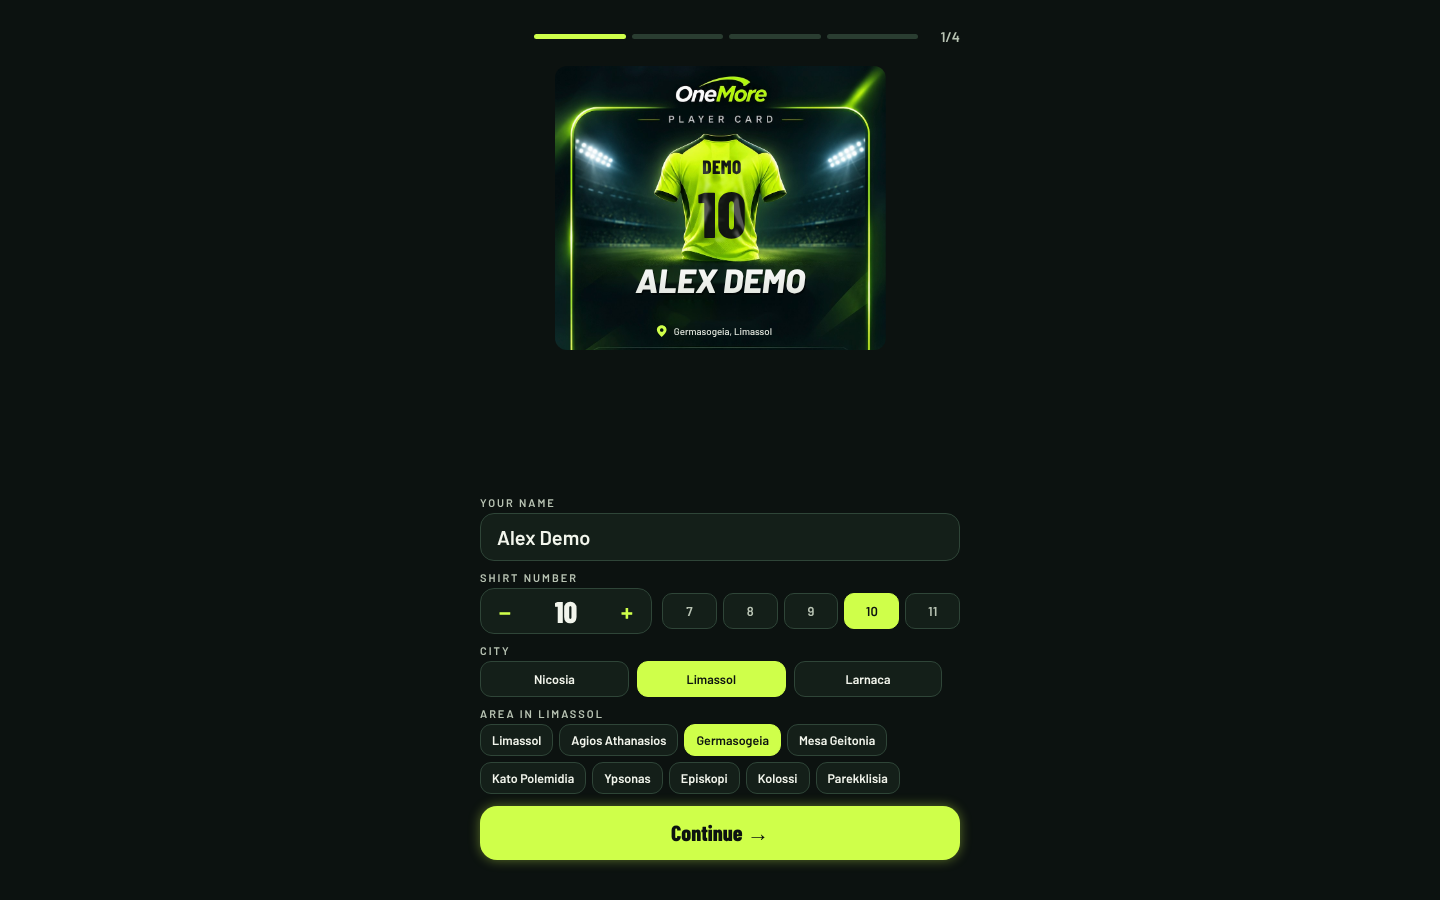
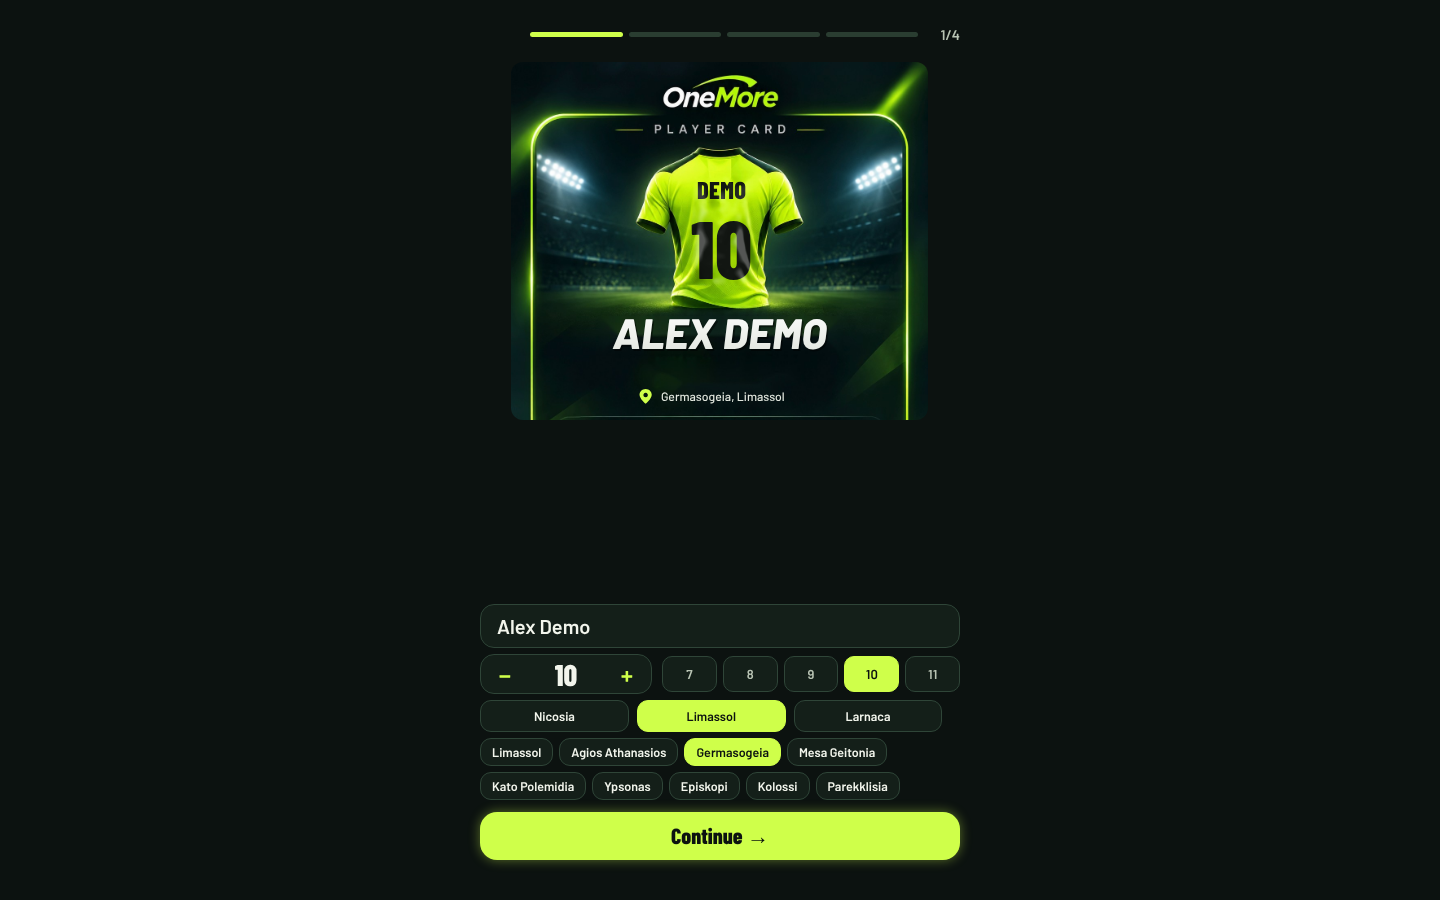
feat: make the player card the main element of every onboarding step
Controls are compact so the card takes the screen width; the card keeps one
position on every step and the footer keeps its bottom margin.

Claude-Session: https://claude.ai/code/session_018Y2DJcCxNRruUAufNUxVdN

diff --git a/src/features/profile/PlayerOnboarding.tsx b/src/features/profile/PlayerOnboarding.tsx
@@ -67,15 +67,15 @@ const pickable: { position: Exclude<Position, 'any'>; code: string }[] = [
   { position: 'goalkeeper', code: 'GK' },
 ];
 const quickNumbers = [7, 8, 9, 10, 11];
-const headerHeight = 40;
-const footerHeight = 54;
-const columnGap = 10;
+const headerHeight = 36;
+const footerHeight = 48;
+const columnGap = 8;
 /** Room kept for the controls of the tallest step; the card takes the rest. */
-const minControlsReserve = 250;
+const minControlsReserve = 235;
 /** Step one without its area chips: name, shirt number, city, labels and gaps. */
-const firstStepControls = 212;
+const firstStepControls = 140;
 /** One row of wrapped area chips and the gap under it. */
-const areaRowHeight = 38;
+const areaRowHeight = 33;
 const minSlotHeight = 190;
 const compactSlotHeight = 72;
 
@@ -499,7 +499,6 @@ export function PlayerOnboarding() {
               {step === 0 ? (
                 <>
                   <View style={[own.group, own.groupFirstStep]}>
-                    <Text style={own.label}>{copy.wizName.toUpperCase()}</Text>
                     <TextInput
                       accessibilityLabel={copy.wizName}
                       value={form.displayName}
@@ -515,7 +514,6 @@ export function PlayerOnboarding() {
                     />
                   </View>
                   <View style={[own.group, own.groupFirstStep]}>
-                    <Text style={own.label}>{copy.wizNumber.toUpperCase()}</Text>
                     <View style={own.numberRow}>
                       <View style={[own.stepper, own.stepperFirstStep]}>
                         <Pressable
@@ -560,7 +558,6 @@ export function PlayerOnboarding() {
                     </View>
                   </View>
                   <View style={[own.group, own.groupFirstStep]}>
-                    <Text style={own.label}>{copy.wizCity.toUpperCase()}</Text>
                     <View
                       accessibilityRole="radiogroup"
                       accessibilityLabel={copy.wizCity}
@@ -597,15 +594,12 @@ export function PlayerOnboarding() {
                   </View>
                   {form.cityId ? (
                     <View style={[own.group, own.groupFirstStep]}>
-                      <Text style={own.label}>
-                        {copy.wizAreaIn.replace('{city}', cityName).toUpperCase()}
-                      </Text>
                       {visibleAreas.length === 0 ? (
                         <Text style={own.muted}>{copy.profileNoAreas}</Text>
                       ) : (
                         <View
                           accessibilityRole="radiogroup"
-                          accessibilityLabel={copy.profileArea}
+                          accessibilityLabel={copy.wizAreaIn.replace('{city}', cityName)}
                           style={own.areaRow}
                         >
                           {visibleAreas.map((item) => (
@@ -1187,9 +1181,9 @@ function makeStyles(
     muted: { color: colors.textSecondary, fontFamily: body, fontSize: 14 },
     header: { flexDirection: 'row', alignItems: 'center', gap: 14 },
     back: {
-      width: 40,
-      height: 40,
-      borderRadius: 13,
+      width: 36,
+      height: 36,
+      borderRadius: 12,
       borderWidth: 1.5,
       borderColor: colors.optionBorder,
       alignItems: 'center',
@@ -1210,12 +1204,12 @@ function makeStyles(
     preview: { flex: 0, alignItems: 'center', justifyContent: 'flex-start' },
     dismissSurface: { flex: 1, minHeight: 0, width: '100%', alignItems: 'center' },
     controlsScroll: { flex: 1, minHeight: 0 },
-    controls: { flexGrow: 1, justifyContent: 'flex-end', gap: 10, paddingBottom: 2 },
+    controls: { flexGrow: 1, justifyContent: 'flex-end', gap: 6, paddingBottom: 2 },
     groupFirstStep: { gap: 4 },
-    fieldFirstStep: { height: 48 },
-    stepperFirstStep: { height: 46 },
-    cityChipFirstStep: { height: 36 },
-    areaChipFirstStep: { height: 32 },
+    fieldFirstStep: { height: 44 },
+    stepperFirstStep: { height: 40 },
+    cityChipFirstStep: { height: 32 },
+    areaChipFirstStep: { height: 28 },
     titleBlock: { gap: 2 },
     kicker: {
       color: accent,
@@ -1227,11 +1221,11 @@ function makeStyles(
     title: {
       color: colors.textPrimary,
       fontFamily: heading,
-      fontSize: locale === 'el' ? 26 : 31,
-      lineHeight: 32,
+      fontSize: locale === 'el' ? 24 : 27,
+      lineHeight: 28,
       fontWeight: '800',
     },
-    group: { gap: 6 },
+    group: { gap: 4 },
     label: {
       color: colors.textSecondary,
       fontFamily: semibold,
@@ -1320,7 +1314,7 @@ function makeStyles(
     areaText: { color: colors.textPrimary, fontFamily: semibold, fontSize: 12.5 },
     on: { backgroundColor: accent, borderColor: accent },
     onText: { color: ink },
-    list: { gap: 8 },
+    list: { gap: 6 },
     row: {
       flexDirection: 'row',
       alignItems: 'center',
@@ -1329,13 +1323,13 @@ function makeStyles(
       borderWidth: 1.5,
       borderColor: colors.optionBorder,
       backgroundColor: colors.option,
-      paddingVertical: 11,
-      paddingHorizontal: 14,
+      paddingVertical: 5,
+      paddingHorizontal: 12,
     },
     rowOn: { borderColor: accent },
     code: {
-      minWidth: 48,
-      height: 36,
+      minWidth: 44,
+      height: 28,
       borderRadius: 10,
       borderWidth: 1.5,
       borderColor: colors.borderStrong,
@@ -1357,7 +1351,7 @@ function makeStyles(
     radioOn: { backgroundColor: accent, borderColor: accent },
     tiles: { flexDirection: 'row', gap: 8 },
     tile: {
-      minHeight: 62,
+      minHeight: 50,
       flex: 1,
       alignItems: 'center',
       justifyContent: 'center',
@@ -1406,7 +1400,7 @@ function makeStyles(
     formatRow: { flexDirection: 'row', gap: 6 },
     format: {
       flex: 1,
-      height: 54,
+      height: 46,
       minWidth: 0,
       borderRadius: 16,
       borderWidth: 1.5,
@@ -1425,7 +1419,7 @@ function makeStyles(
     },
     footer: { flexDirection: 'row', gap: 10 },
     skip: {
-      height: 54,
+      height: 48,
       paddingHorizontal: 22,
       borderRadius: 17,
       borderWidth: 1.5,
@@ -1436,7 +1430,7 @@ function makeStyles(
     skipText: { color: colors.textPrimary, fontFamily: semibold, fontSize: 16 },
     cta: {
       flex: 1,
-      height: 54,
+      height: 48,
       borderRadius: 17,
       backgroundColor: accent,
       alignItems: 'center',
